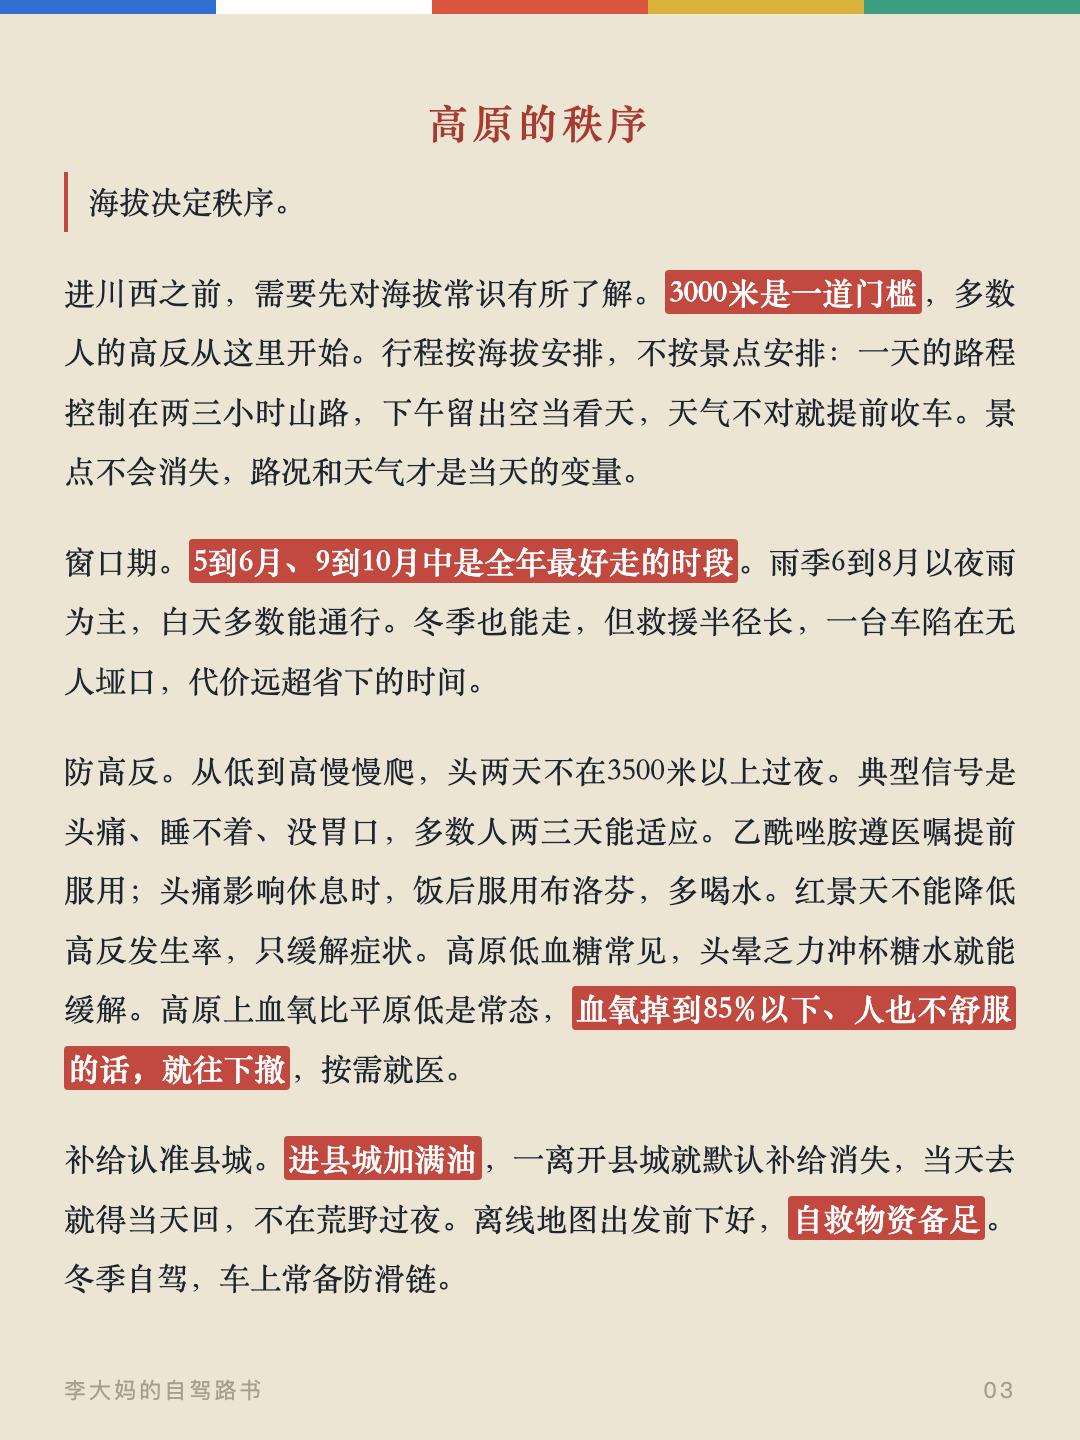
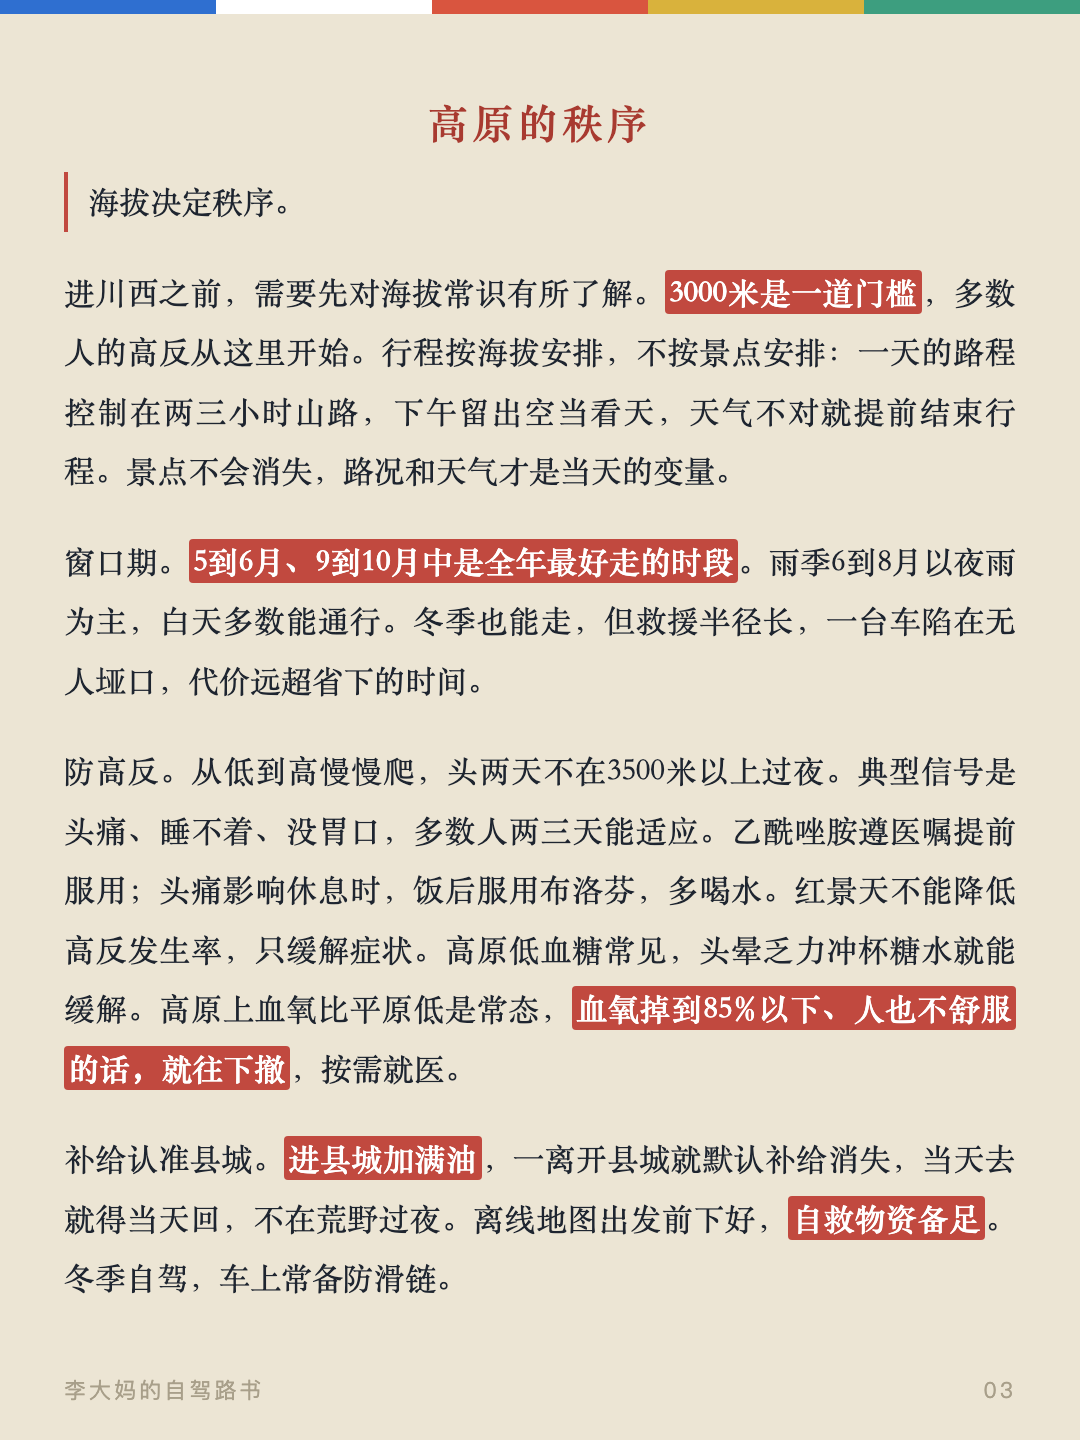
收车改结束行程；lead山被切成几列

Changed region(s): [[0.0611, 0.2812, 0.9472, 0.3438]]

diff --git a/cards.html b/cards.html
@@ -127,9 +127,9 @@
 
 <div class="card" id="card2"><div class="flag" aria-hidden="true"><span style="background:var(--flag-blue)"></span><span style="background:var(--flag-white)"></span><span style="background:var(--flag-red)"></span><span style="background:var(--flag-yellow)"></span><span style="background:var(--flag-green)"></span></div><div class="card__inner"><h3>与人相处</h3><p><strong>牧民。</strong> 牛羊是牧民的主要家当。拍牧民和牲畜，先打招呼再举相机。牧场的帐篷和围栏，不随便进去。</p><p><strong>匠人。</strong> 进工坊先问能不能看，问手艺、问工序，匠人愿意聊就聊。工具和材料不上手碰。买现货，半成品和机压仿品不碰。</p><p><strong>僧侣。</strong> 称呼用“师父”或“上师”。进大殿脱帽、轻声、顺时针走，不拍照、不指佛像。法会时安静看，不打断、不围观起哄。</p><p><strong>司机和本地人。</strong> 见面一句“扎西德勒”，气氛就开了。问路、问价，态度客气，多数人都愿意答。本地人大多直接，不绕弯。</p><p><strong>买东西。</strong> 讲好价就照付，不反复缠价。看上了再还价，压完不买<span class="nowrap">最伤和气。</span></p><p><strong>拍照。</strong> 拍人先问，拍寺院内部和法会先看有没有禁令。相机镜头对着人的时候，先问一句，多数人会同意的。</p><div class="card__foot"><span>李大妈的自驾路书</span><span>02</span></div></div></div>
 
-<div class="card" id="card3"><div class="flag" aria-hidden="true"><span style="background:var(--flag-blue)"></span><span style="background:var(--flag-white)"></span><span style="background:var(--flag-red)"></span><span style="background:var(--flag-yellow)"></span><span style="background:var(--flag-green)"></span></div><div class="card__inner"><h2>高原的秩序</h2><p class="card__lead">海拔决定秩序。</p><p>进川西之前，需要先对海拔常识有所了解。<strong>3000米是一道门槛</strong>，多数人的高反从这里开始。行程按海拔安排，不按景点安排：一天的路程控制在两三小时山路，下午留出空当看天，天气不对就提前收车。景点不会消失，路况和天气才是当天的变量。</p><p>窗口期。<strong>5到6月、9到10月中是全年最好走的时段</strong>。雨季6到8月以夜雨为主，白天多数能通行。冬季也能走，但救援半径长，一台车陷在无人垭口，代价远超省下的时间。</p><p>防高反。从低到高慢慢爬，头两天不在3500米以上过夜。典型信号是头痛、睡不着、没胃口，多数人两三天能适应。乙酰唑胺遵医嘱提前服用；头痛影响休息时，饭后服用布洛芬，多喝水。红景天不能降低高反发生率，只缓解症状。高原低血糖常见，头晕乏力冲杯糖水就能缓解。高原上血氧比平原低是常态，<strong>血氧掉到85%以下、人也不舒服的话，就往下撤</strong>，按需就医。</p><p>补给认准县城。<strong>进县城加满油</strong>，一离开县城就默认补给消失，当天去就得当天回，不在荒野过夜。离线地图出发前下好，<strong>自救物资备足</strong>。冬季自驾，车上常备防滑链。</p><div class="card__foot"><span>李大妈的自驾路书</span><span>03</span></div></div></div>
+<div class="card" id="card3"><div class="flag" aria-hidden="true"><span style="background:var(--flag-blue)"></span><span style="background:var(--flag-white)"></span><span style="background:var(--flag-red)"></span><span style="background:var(--flag-yellow)"></span><span style="background:var(--flag-green)"></span></div><div class="card__inner"><h2>高原的秩序</h2><p class="card__lead">海拔决定秩序。</p><p>进川西之前，需要先对海拔常识有所了解。<strong>3000米是一道门槛</strong>，多数人的高反从这里开始。行程按海拔安排，不按景点安排：一天的路程控制在两三小时山路，下午留出空当看天，天气不对就提前结束行程。景点不会消失，路况和天气才是当天的变量。</p><p>窗口期。<strong>5到6月、9到10月中是全年最好走的时段</strong>。雨季6到8月以夜雨为主，白天多数能通行。冬季也能走，但救援半径长，一台车陷在无人垭口，代价远超省下的时间。</p><p>防高反。从低到高慢慢爬，头两天不在3500米以上过夜。典型信号是头痛、睡不着、没胃口，多数人两三天能适应。乙酰唑胺遵医嘱提前服用；头痛影响休息时，饭后服用布洛芬，多喝水。红景天不能降低高反发生率，只缓解症状。高原低血糖常见，头晕乏力冲杯糖水就能缓解。高原上血氧比平原低是常态，<strong>血氧掉到85%以下、人也不舒服的话，就往下撤</strong>，按需就医。</p><p>补给认准县城。<strong>进县城加满油</strong>，一离开县城就默认补给消失，当天去就得当天回，不在荒野过夜。离线地图出发前下好，<strong>自救物资备足</strong>。冬季自驾，车上常备防滑链。</p><div class="card__foot"><span>李大妈的自驾路书</span><span>03</span></div></div></div>
 
-<div class="card" id="card4"><div class="flag" aria-hidden="true"><span style="background:var(--flag-blue)"></span><span style="background:var(--flag-white)"></span><span style="background:var(--flag-red)"></span><span style="background:var(--flag-yellow)"></span><span style="background:var(--flag-green)"></span></div><div class="card__inner"><h2>山河的地图</h2><p class="card__lead">山河决定地图。山脉怎么切开，路就顺着山沟蜿蜒。</p><p>川西的来历。约4000万到5000万年前，印度板块撞上欧亚板块，把一片浅海抬成陆地，就是青藏高原，川西在高原的东南缘。碰撞到现在没停，高原还在缓慢升高。</p><p>山脉全是南北走向。横断山把川西切成一列列山岭，从东往西：邛崃山，四姑娘山在主脊上；大雪山，贡嘎山海拔7508.9米，蜀山之王；沙鲁里山；雀儿山。山与山之间夹着河谷，路顺着河谷修，镇子落在河谷里。<strong>川西的聚落沿山河分布，不按行政区划。</strong></p><p>河流分成三路。东部是大渡河，小金、金川、丹巴都在它的水系里；雅砻江从甘孜县城边流过；金沙江是德格的西界，德格县城在金沙江东岸。三条江分头汇进长江。</p><p><strong>海子是古冰川留下的湖。</strong>冰期冰川刨出的洼地积水成湖，理塘到稻城之间的海子山，古冰川退去后留下1145个高原湖泊。单个看，康定的木格措、九龙的伍须海、巴塘的措普湖各有各的颜色，德格雀儿山下的新路海紧挨着雪峰。</p><div class="card__foot"><span>李大妈的自驾路书</span><span>04</span></div></div></div>
+<div class="card" id="card4"><div class="flag" aria-hidden="true"><span style="background:var(--flag-blue)"></span><span style="background:var(--flag-white)"></span><span style="background:var(--flag-red)"></span><span style="background:var(--flag-yellow)"></span><span style="background:var(--flag-green)"></span></div><div class="card__inner"><h2>山河的地图</h2><p class="card__lead">山河决定地图。山被切成几列，路就顺着山沟蜿蜒。</p><p>川西的来历。约4000万到5000万年前，印度板块撞上欧亚板块，把一片浅海抬成陆地，就是青藏高原，川西在高原的东南缘。碰撞到现在没停，高原还在缓慢升高。</p><p>山脉全是南北走向。横断山把川西切成一列列山岭，从东往西：邛崃山，四姑娘山在主脊上；大雪山，贡嘎山海拔7508.9米，蜀山之王；沙鲁里山；雀儿山。山与山之间夹着河谷，路顺着河谷修，镇子落在河谷里。<strong>川西的聚落沿山河分布，不按行政区划。</strong></p><p>河流分成三路。东部是大渡河，小金、金川、丹巴都在它的水系里；雅砻江从甘孜县城边流过；金沙江是德格的西界，德格县城在金沙江东岸。三条江分头汇进长江。</p><p><strong>海子是古冰川留下的湖。</strong>冰期冰川刨出的洼地积水成湖，理塘到稻城之间的海子山，古冰川退去后留下1145个高原湖泊。单个看，康定的木格措、九龙的伍须海、巴塘的措普湖各有各的颜色，德格雀儿山下的新路海紧挨着雪峰。</p><div class="card__foot"><span>李大妈的自驾路书</span><span>04</span></div></div></div>
 
 <div class="card" id="card5"><div class="flag" aria-hidden="true"><span style="background:var(--flag-blue)"></span><span style="background:var(--flag-white)"></span><span style="background:var(--flag-red)"></span><span style="background:var(--flag-yellow)"></span><span style="background:var(--flag-green)"></span></div><div class="card__inner"><p>川西地震多，因为它在鲜水河断裂带上。这条断裂带从中部纵贯，历史上强震不断。对旅行者，最实在的是<strong>路况随时可能因塌方管制</strong>；很多陡崖和河谷的走向，就是断裂带运动的痕迹。</p><p>植被随海拔分层，从山谷到垭口一路变化。2500米以下是针阔混交林；2500到3500米是云杉冷杉的针叶林，高山杜鹃夹在林里；3500到4500米是高山灌丛和高山草甸，冬虫夏草、雪茶都长在这一层；4500米以上是流石滩，雪莲贴着碎石长。<strong>同一条路翻几座山，一天就能跨过四个<span class="nowrap">植被带</span>，换到别处得开几千公里。</strong></p><p>吃的东西也按海拔分布。青稞是高原的当家作物，炒熟磨成糌粑，拌上酥油茶捏成团，是藏人的日常主食；酥油茶用砖茶和酥油熬，热量高、解渴御寒，当地有<strong>“宁可三日无肉，不可一日无茶”</strong>的说法。牦牛在海拔3500米以上放养，肉干、火锅、炖汤都常见；血肠是待客的上等菜，牛血或羊血和肉丁灌进小肠煮熟。松茸这类菌子长在森林里，集中在金沙江、雅砻江、大渡河上中游的高山峡谷，夏秋雨后出得多，炖鸡、涮锅都常吃。这些不用刻意找，路边饭馆的菜单上就有。</p><div class="card__foot"><span>李大妈的自驾路书</span><span>05</span></div></div></div>
 

diff --git a/index.html b/index.html
@@ -223,7 +223,7 @@
     <section class="part" id="order">
       <div class="part__head"><span class="part__no" aria-hidden="true">一</span><h2>高原的秩序</h2></div>
       <p class="part__lead">海拔决定秩序。</p>
-      <p>进川西之前，需要先对海拔常识有所了解。<strong>3000米是一道门槛</strong>，多数人的高反从这里开始。行程按海拔安排，不按景点安排：一天的路程控制在两三小时山路，下午留出空当看天，天气不对就提前收车。景点不会消失，路况和天气才是当天的变量。</p>
+      <p>进川西之前，需要先对海拔常识有所了解。<strong>3000米是一道门槛</strong>，多数人的高反从这里开始。行程按海拔安排，不按景点安排：一天的路程控制在两三小时山路，下午留出空当看天，天气不对就提前结束行程。景点不会消失，路况和天气才是当天的变量。</p>
       <p>窗口期。<strong>5到6月、9到10月中是全年最好走的时段</strong>。雨季6到8月以夜雨为主，白天多数能通行。冬季也能走，但救援半径长，一台车陷在无人垭口，代价远超省下的时间。</p>
       <p>防高反。从低到高慢慢爬，头两天不在3500米以上过夜。典型信号是头痛、睡不着、没胃口，多数人两三天能适应。乙酰唑胺遵医嘱提前服用；头痛影响休息时，饭后服用布洛芬，多喝水。红景天不能降低高反发生率，只缓解症状。高原低血糖常见，头晕乏力冲杯糖水就能缓解。高原上血氧比平原低是常态，<strong>血氧掉到85%以下、人也不舒服的话，就往下撤</strong>，按需就医。</p>
       <p>补给认准县城。<strong>进县城加满油</strong>，一离开县城就默认补给消失，当天去就得当天回，不在荒野过夜。离线地图出发前下好，<strong>自救物资备足</strong>。冬季自驾，车上常备防滑链。</p>
@@ -232,7 +232,7 @@
     <!-- 二、山河的地图 -->
     <section class="part" id="terrain">
       <div class="part__head"><span class="part__no" aria-hidden="true">二</span><h2>山河的地图</h2></div>
-      <p class="part__lead">山河决定地图。山脉怎么切开，路就顺着山沟蜿蜒。</p>
+      <p class="part__lead">山河决定地图。山被切成几列，路就顺着山沟蜿蜒。</p>
       <p>川西的来历。约4000万到5000万年前，印度板块撞上欧亚板块，把一片浅海抬成陆地，就是青藏高原，川西在高原的东南缘。碰撞到现在没停，高原还在缓慢升高。</p>
       <p>山脉全是南北走向。横断山把川西切成一列列山岭，从东往西：邛崃山，四姑娘山在主脊上；大雪山，贡嘎山海拔7508.9米，蜀山之王；沙鲁里山；雀儿山。山与山之间夹着河谷，路顺着河谷修，镇子落在河谷里。<strong>川西的聚落沿山河分布，不按行政区划。</strong></p>
       <p>河流分成三路。东部是大渡河，小金、金川、丹巴都在它的水系里；雅砻江从甘孜县城边流过；金沙江是德格的西界，德格县城在金沙江东岸。三条江分头汇进长江。</p>

diff --git a/gen_cards.py b/gen_cards.py
@@ -34,12 +34,12 @@ BODY_STREAM = [
   ('p', '<strong>拍照。</strong> 拍人先问，拍寺院内部和法会先看有没有禁令。相机镜头对着人的时候，先问一句，多数人会同意的。'),
   ('h2', '高原的秩序'),
   ('lead', '海拔决定秩序。'),
-  ('p', '进川西之前，需要先对海拔常识有所了解。<strong>3000米是一道门槛</strong>，多数人的高反从这里开始。行程按海拔安排，不按景点安排：一天的路程控制在两三小时山路，下午留出空当看天，天气不对就提前收车。景点不会消失，路况和天气才是当天的变量。'),
+  ('p', '进川西之前，需要先对海拔常识有所了解。<strong>3000米是一道门槛</strong>，多数人的高反从这里开始。行程按海拔安排，不按景点安排：一天的路程控制在两三小时山路，下午留出空当看天，天气不对就提前结束行程。景点不会消失，路况和天气才是当天的变量。'),
   ('p', '窗口期。<strong>5到6月、9到10月中是全年最好走的时段</strong>。雨季6到8月以夜雨为主，白天多数能通行。冬季也能走，但救援半径长，一台车陷在无人垭口，代价远超省下的时间。'),
   ('p', '防高反。从低到高慢慢爬，头两天不在3500米以上过夜。典型信号是头痛、睡不着、没胃口，多数人两三天能适应。乙酰唑胺遵医嘱提前服用；头痛影响休息时，饭后服用布洛芬，多喝水。红景天不能降低高反发生率，只缓解症状。高原低血糖常见，头晕乏力冲杯糖水就能缓解。高原上血氧比平原低是常态，<strong>血氧掉到85%以下、人也不舒服的话，就往下撤</strong>，按需就医。'),
   ('p', '补给认准县城。<strong>进县城加满油</strong>，一离开县城就默认补给消失，当天去就得当天回，不在荒野过夜。离线地图出发前下好，<strong>自救物资备足</strong>。冬季自驾，车上常备防滑链。'),
   ('h2', '山河的地图'),
-  ('lead', '山河决定地图。山脉怎么切开，路就顺着山沟蜿蜒。'),
+  ('lead', '山河决定地图。山被切成几列，路就顺着山沟蜿蜒。'),
   ('p', '川西的来历。约4000万到5000万年前，印度板块撞上欧亚板块，把一片浅海抬成陆地，就是青藏高原，川西在高原的东南缘。碰撞到现在没停，高原还在缓慢升高。'),
   ('p', '山脉全是南北走向。横断山把川西切成一列列山岭，从东往西：邛崃山，四姑娘山在主脊上；大雪山，贡嘎山海拔7508.9米，蜀山之王；沙鲁里山；雀儿山。山与山之间夹着河谷，路顺着河谷修，镇子落在河谷里。<strong>川西的聚落沿山河分布，不按行政区划。</strong>'),
   ('p', '河流分成三路。东部是大渡河，小金、金川、丹巴都在它的水系里；雅砻江从甘孜县城边流过；金沙江是德格的西界，德格县城在金沙江东岸。三条江分头汇进长江。'),
